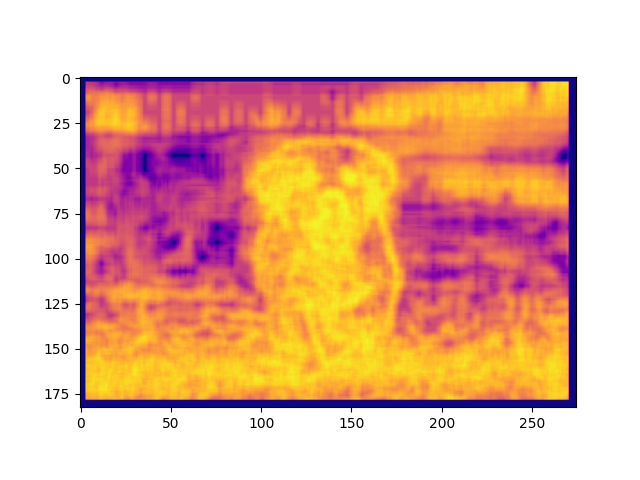
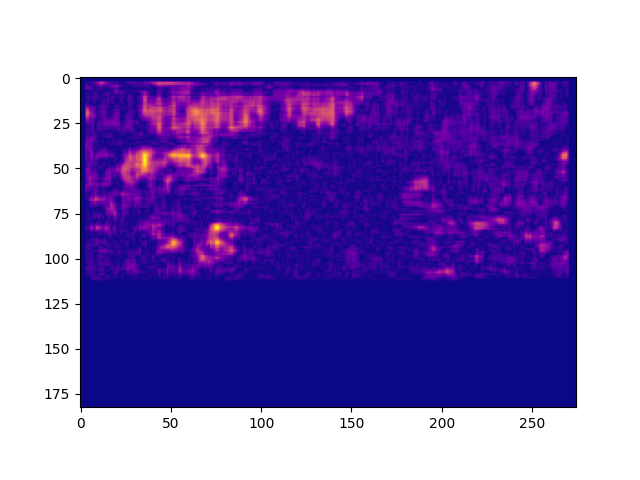
main entropy intreface implemented

diff --git a/src/main.py b/src/main.py
@@ -6,13 +6,23 @@ from pathlib import Path
 from video_parser import ParsedVideo, VideoExtracter, VideoCombiner
 from frame_lsb_steganography import LSBFrameEncode, LSBFrameDecode
 from wav_lsb_steganography import LSBWavEncode, LSBWavDecode
-from picture_entropy import VideoEntropy
+from picture_entropy import PictureEntropy
 
 repo_path = Path(__file__).parent.parent
 
-def generate_entropy_png(picture: str, output: str, diff: str):
-    path_to_picture = Path(picture)
-    path_to_output = Path(output)
+def generate_entropy_png(picture: str, output: str, diff: str | None, period: int | None):
+    PictureEntropy.png_entropy_image(picture, diff, output, period)
+
+def generate_entropy_video(video_path: str, output: str, diff: str | None):
+    video = VideoExtracter.extract(Path(video_path))
+    video_entr = PictureEntropy(video.frames, video.fps)
+
+    another = None 
+    if diff is not None:
+        another_video = VideoExtracter.extract(Path(diff))
+        another = another_video.frames
+
+    video_entr.entropy_image(another, Path(output), None)
 
 def generate_wav_plot(audio: str, output: str, diff: str):
     path_to_audio = Path(audio)
@@ -48,7 +58,7 @@ def generate_encoded_video(video: str, secret: str, output: str):
     copied = np.copy(parsed_video)
 
     for i in range(chunks_count):
-        if chunks[i] is not "":
+        if chunks[i] != "":
             parsed_video.frames[i] = LSBFrameEncode.encode(parsed_video.frames[i], chunks[i])
     encoded_wav = repo_path / "tmp" / "encoded_audio.wav"
     LSBWavEncode.encode(copy.path_to_wav, encoded_wav, msg)
@@ -69,10 +79,12 @@ if __name__ == "__main__":
     decode.add_argument("--secret", type=str, required=True, help="path to secret file")
     decode.add_argument("--output", type=str, required=True, help="path to output video")
 
-    entropy = subparsers.add_parser("entropy_png")
-    entropy.add_argument("--picture", type=str, required=True, help="path to picture png")
+    entropy = subparsers.add_parser("entropy")
+    entropy.add_argument("--picture", type=str, help="path to picture png")
+    entropy.add_argument("--video", type=str, help="path to video mp4")
     entropy.add_argument("--output", required=True, help="path to picture entropy plot")
-    entropy.add_argument("--diff", default="", type=str, help="path to encoded picture to see diff")
+    entropy.add_argument("--diff", default=None, type=str, help="path to encoded picture or video to see difference")
+    entropy.add_argument("--period", default=None, type=int)
 
     plot = subparsers.add_parser("wav_plot")
     plot.add_argument("--audio", required=True, help="path to audio wav")
@@ -82,8 +94,14 @@ if __name__ == "__main__":
     args = parser.parse_args()
     print(args)
     match args.command:
-        case "entropy_png":
-            pass
+        case "entropy":
+            if args.picture is not None:
+                generate_entropy_png(args.picture, args.output, args.diff, args.period)
+            elif args.video is not None:
+                generate_entropy_video(args.video, args.output, args.diff)
+            else:
+                parser.error("for command `entorpy` --video or --picture must be specified")
+            
         case "plot_wav":
             pass
         case "encode":

diff --git a/src/picture_entropy.py b/src/picture_entropy.py
@@ -120,22 +120,22 @@ class PictureEntropy:
     plt.savefig(fname=out)
 
   def png_entropy_image(img_path: str, another_path: str | None, out_path: str, period: int | None) -> None:
-    img = cv2.imread(img_path.as_posix())
+    img = cv2.imread(img_path)
     frame = cv2.cvtColor(img, cv2.COLOR_BGRA2BGR)
 
     entropy = PictureEntropy.frame_entropy(frame, period)
 
     if another_path is not None:
-      another_img = cv2.imread(another_path.as_posix())
+      another_img = cv2.imread(another_path)
       another_frame = cv2.cvtColor(another_img, cv2.COLOR_BGRA2BGR)
       
-      entropy = np.abs(np.subtract(entropy - PictureEntropy.frame_entropy(another_frame, period)))
+      entropy = np.abs(entropy - PictureEntropy.frame_entropy(another_frame, period))
 
-    if type(entropy) == float:
+    if type(entropy) == np.float64 or type(entropy) == float:
       print(entropy)
       return
-    
+  
     plt.imshow(entropy, cmap="plasma", interpolation=None)
     plt.savefig(fname=out_path)
-    
+
       

diff --git a/src/video_parser.py b/src/video_parser.py
@@ -5,7 +5,7 @@ import numpy as np
 import scipy.io.wavfile as wv
 from pydub import AudioSegment
 from pathlib import Path
-from moviepy.editor import VideoFileClip, AudioFileClip
+from moviepy import VideoFileClip, AudioFileClip
 from logger import logger
 
 repo_path = Path(__file__).parent.parent
